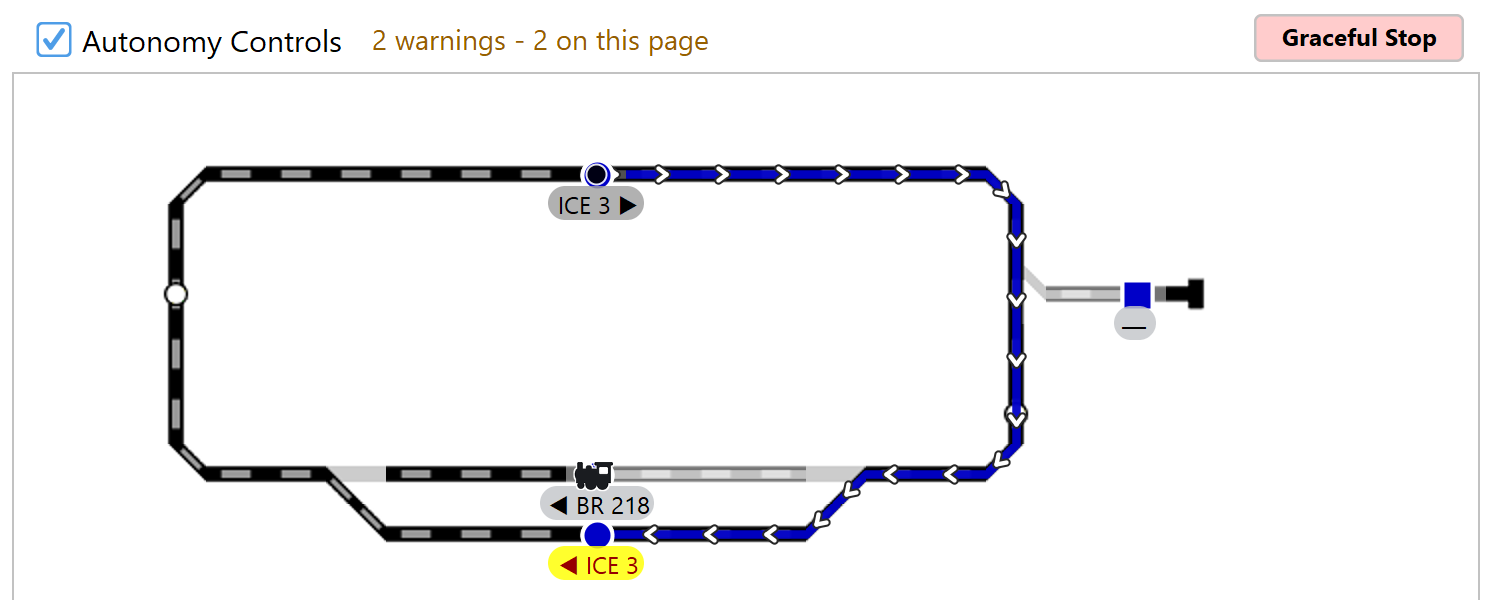
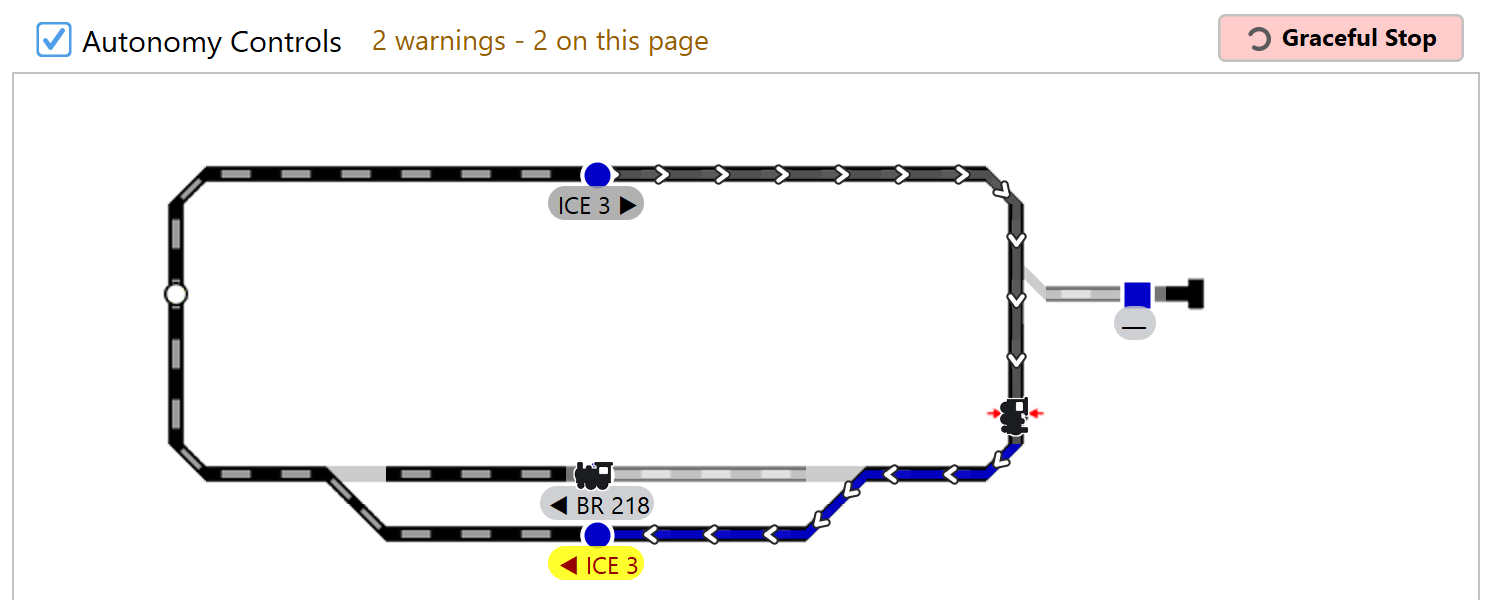
Readme: the Full Autonomy section - a description, the editor and a run pictured, the guide linked
Adam, 2026-10-04: "It needs a description, one or two screenshots, and a
link to the full guide."  The opening says what 3.0 does - autonomy set up
on the track diagram in the autonomy editor - and what is needed; a clean
picture of the autonomy editor (assets/autonomy_editor3.png, new) and a
run on the current look (assets/autonomy3.png, retaken); and the guide on
a line of its own.

diff --git a/Readme.md b/Readme.md
@@ -125,11 +125,17 @@ Useful for testing, individual accessories can be directly controlled via their 
 
 **Full Autonomy**
 
-Set up on the track diagram ([user guide](Automation.md)) - an older [JSON configuration file](AutomationAPI.md) can be imported from the autonomy menu - and enable complete automation of trains using S88 sensors (at least one per station), digital switches and an initial list of locomotive locations - signals are optional ([what you need](Automation.md#what-you-need)).  TrainControl will automatically keep track of where each train is located at any given time.  You can pick destinations for specific trains, or let the system continuously execute random routes.  All state is auto-saved on exit.
+TrainControl can run your trains on its own.  In version 3.0 you set this up on the track diagram itself, in the autonomy editor.  TrainControl works out how your track connects, so there is no graph to build and no file to write.  You set up stations, directions and settings by right-clicking a square.  The setup is checked before it runs, and each problem it finds takes you to the square it is about.
 
-![A train running under autonomy on the track diagram, its route drawn ahead of it](assets/autonomy3.png?raw=true)
+You need S88 sensors, at least one per station, and digital switches.  Signals are optional ([what you need](Automation.md#what-you-need)).  Once you have placed your trains, TrainControl keeps track of where every train is.  You can send a particular train to a station, or let it keep picking destinations at random.  Everything is saved automatically when you exit.  If you set up autonomy in an older version, its [JSON configuration file](AutomationAPI.md) can be imported from the Autonomy menu.
 
-The track diagram shows each running train's route, the track it is holding, and where every train is standing.  The setup is checked as you build it, and each problem it finds opens the autonomy editor on the square it is about.  While trains are not running, you can right-click a station to place a train there, or right-click a train to send it somewhere.
+**Full guide:** [The autonomy editor: a user guide](Automation.md)
+
+![The autonomy editor: the track diagram with its stations named, a list of things to look at below it, and tools and settings on the right](assets/autonomy_editor3.png?raw=true)
+
+![A train running under autonomy on the track diagram: its route ahead in blue, the track it has passed and still holds in dark grey, and a second train standing at its station](assets/autonomy3.png?raw=true)
+
+The track diagram shows each running train's route, the track it is holding, and where every train is standing.  While trains are not running, you can right-click a station to place a train there, or right-click a train to send it somewhere.
 
 In addition to the continuous automated operation and point-to-point commands, you can also specify timetables and run your trains according to a predefined list of paths, subject to the same protections as autonomous operation.
 
